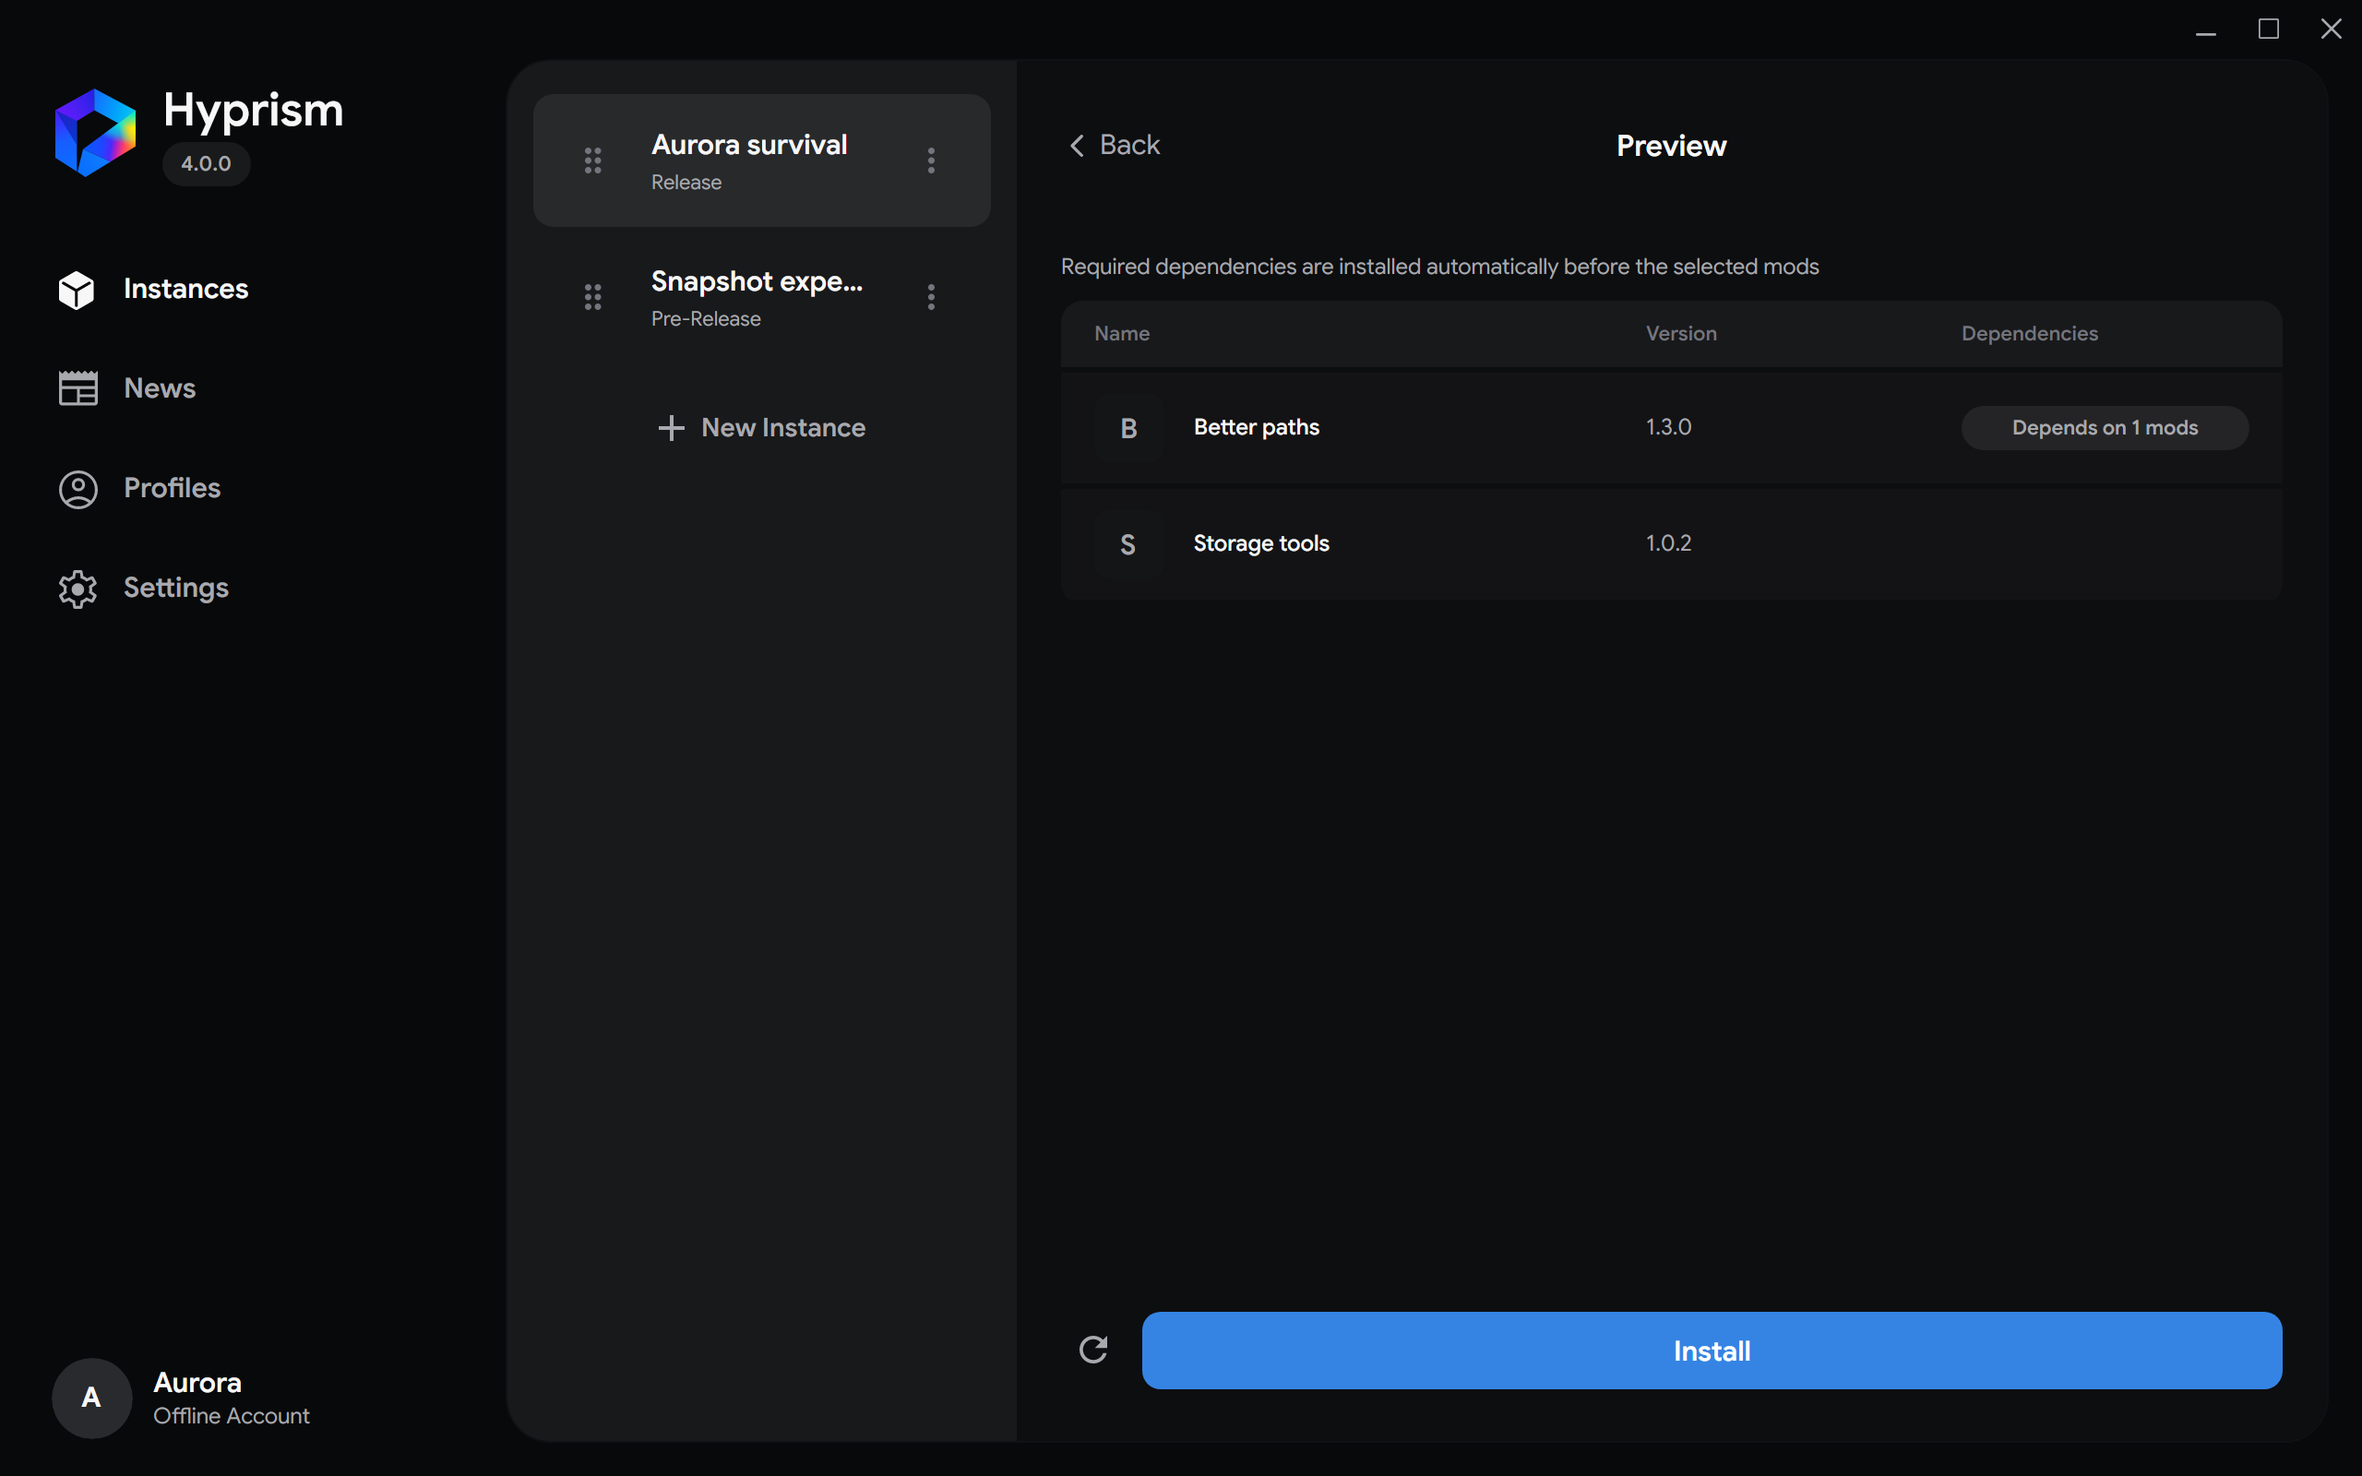
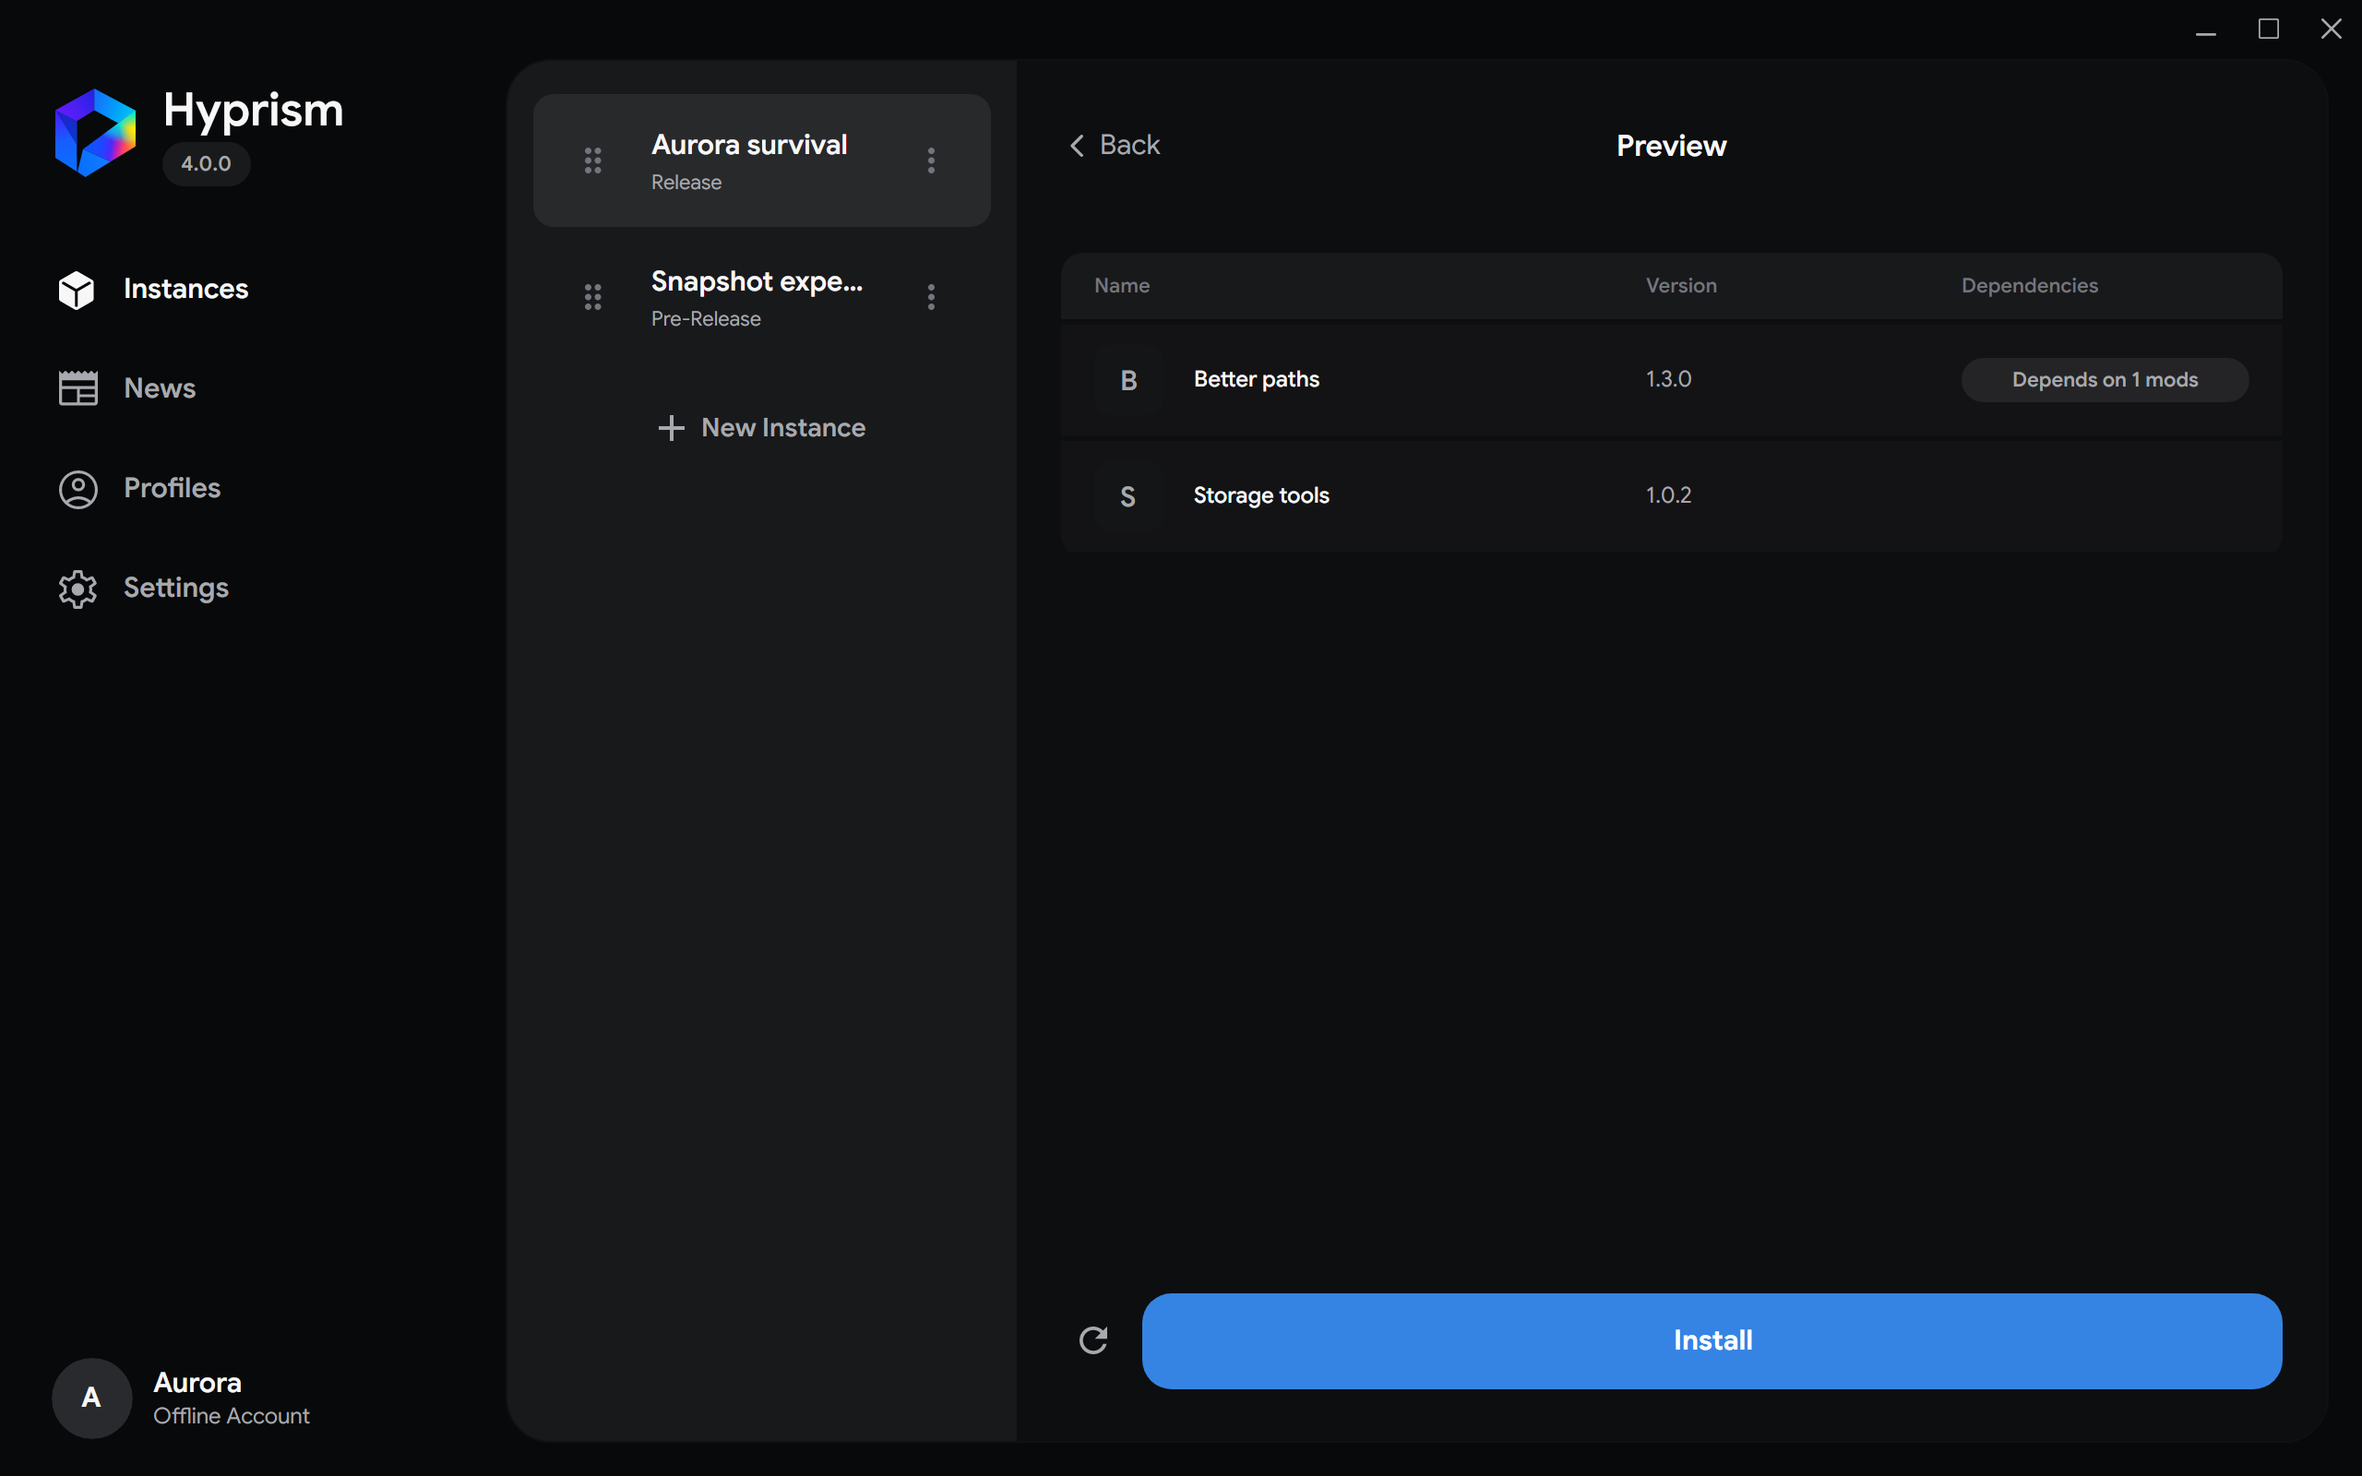
Refactor: Update transitions and styles for the compact view

diff --git a/Tests/Hyprism.Desktop.Tests/InstanceSectionRenderTests.cs b/Tests/Hyprism.Desktop.Tests/InstanceSectionRenderTests.cs
@@ -36,8 +36,10 @@ namespace Hyprism.Desktop.Tests;
 
 public sealed class InstanceSectionRenderTests
 {
-    [AvaloniaFact]
-    public async Task ModsBrowseAndLogsSectionsRenderInteractiveRows()
+    [AvaloniaTheory]
+    [InlineData(false)]
+    [InlineData(true)]
+    public async Task ModsBrowseAndLogsSectionsRenderInteractiveRows(bool compactInstallation)
     {
         const string instancePath = "/tmp/hyprism-section-render-test";
         var instance = new InstanceInfo
@@ -472,6 +474,28 @@ public sealed class InstanceSectionRenderTests
         var installConfirmButton = installContent.FindControl<Button>("ModCatalogInstallConfirmButton");
         Assert.NotNull(installConfirmButton);
         Assert.Same(viewModel.InstallSelectedCatalogModsCommand, installConfirmButton!.Command);
+        Assert.DoesNotContain(installContent.GetVisualDescendants().OfType<TextBlock>(),
+            text => text.Text == viewModel.Instances.ModCatalogInstallDependencyHint);
+        var buttonCenter = installConfirmButton.TranslatePoint(
+            new Point(installConfirmButton.Bounds.Width / 2, installConfirmButton.Bounds.Height / 2), window)!.Value;
+        var accent = Color.Parse("#176B52");
+        var hoverAccent = Color.Parse("#238568");
+        var pressedAccent = Color.Parse("#104834");
+        window.Resources["AccentBrush"] = new SolidColorBrush(accent);
+        window.Resources["AccentHoverBrush"] = new SolidColorBrush(hoverAccent);
+        window.Resources["PrimaryPressedBrush"] = new SolidColorBrush(pressedAccent);
+        await WaitUntilAsync(() => Assert.IsAssignableFrom<ISolidColorBrush>(installConfirmButton.Background).Color == accent);
+        window.MouseMove(buttonCenter);
+        await WaitUntilAsync(() => Assert.IsAssignableFrom<ISolidColorBrush>(installConfirmButton.Background).Color == hoverAccent);
+        var confirmBorder = Assert.Single(installConfirmButton.GetVisualDescendants().OfType<Border>());
+        Assert.Equal(hoverAccent, Assert.IsAssignableFrom<ISolidColorBrush>(confirmBorder.Background).Color);
+        window.MouseDown(buttonCenter, MouseButton.Left);
+        await WaitUntilAsync(() => Assert.IsAssignableFrom<ISolidColorBrush>(installConfirmButton.Background).Color == pressedAccent);
+        window.MouseMove(new Point(0, 0));
+        window.MouseUp(new Point(0, 0), MouseButton.Left);
+        window.Resources.Remove("AccentBrush");
+        window.Resources.Remove("AccentHoverBrush");
+        window.Resources.Remove("PrimaryPressedBrush");
         var installResetButton = installContent.FindControl<Button>("ModCatalogInstallResetButton");
         Assert.NotNull(installResetButton);
         Assert.Same(viewModel.ClearModCatalogSelectionCommand, installResetButton!.Command);
@@ -513,7 +537,35 @@ public sealed class InstanceSectionRenderTests
         viewModel.ToggleModCatalogSelectionCommand.Execute(viewModel.ModCatalogItems[0]);
         Assert.Contains("visible", catalogTopInstall.Classes);
 
+        if (compactInstallation)
+        {
+            window.Width = 680;
+            window.UpdateLayout();
+            Dispatcher.UIThread.RunJobs();
+        }
+        viewModel.OpenModCatalogInstallConfirmationCommand.Execute(null);
+        await WaitUntilAsync(() => installPage.IsEffectivelyVisible && !sectionPages.IsVisible &&
+            Math.Abs(Assert.IsType<TranslateTransform>(installPage.RenderTransform).X) < 0.1);
         var installTask = viewModel.InstallSelectedCatalogModsCommand.ExecuteAsync(null);
+        Assert.True(installPage.IsVisible);
+        Assert.False(installPage.IsHitTestVisible);
+        Assert.False(sectionPages.IsVisible);
+        var returningHub = view.FindControl<InstanceOverviewView>("InstanceOverviewContentView")!.HubScreen;
+        await WaitUntilAsync(() => !installPage.IsVisible && returningHub.IsHitTestVisible);
+        if (!compactInstallation)
+        {
+            await WaitUntilAsync(() => returningHub.Opacity > 0.05);
+            Assert.InRange(returningHub.Opacity, 0.05, 0.99);
+            Assert.InRange(Assert.IsType<TranslateTransform>(returningHub.RenderTransform).X, -28, -0.01);
+            await WaitUntilAsync(() => returningHub.Opacity >= 0.99 &&
+                Math.Abs(Assert.IsType<TranslateTransform>(returningHub.RenderTransform).X) < 0.1);
+        }
+        if (compactInstallation)
+        {
+            window.Width = 1180;
+            window.UpdateLayout();
+            Dispatcher.UIThread.RunJobs();
+        }
         Assert.Null(modsView.FindControl<Border>("ModCatalogInstallScreen"));
         await WaitUntilAsync(() => viewModel.Instances.IsManagedInstanceInstallingMods && viewModel.IsInstanceOverviewSection);
         var overview = Assert.Single(view.GetVisualDescendants().OfType<InstanceOverviewView>());

diff --git a/Sources/Hyprism.Desktop/Screens/Instances/InstancesView.axaml.cs b/Sources/Hyprism.Desktop/Screens/Instances/InstancesView.axaml.cs
@@ -26,6 +26,7 @@ public sealed partial class InstancesView : UserControl
     private readonly ReorderableListController _instanceReorder;
     private readonly WizardScreenTransition _modCatalogPreviewTransition;
     private readonly WizardScreenTransition _modCatalogInstallTransition;
+    private readonly WizardScreenTransition _modCatalogInstallToInstanceTransition;
     private INotifyPropertyChanged? _viewModel;
     private bool _creatorOpenedFromCompactList;
     private bool _creatorTransitionActive;
@@ -44,6 +45,9 @@ public sealed partial class InstancesView : UserControl
             InstanceModCatalogPreviewPage);
         _modCatalogInstallTransition = new WizardScreenTransition(
             InstanceSectionPages,
+            InstanceModCatalogInstallPage);
+        _modCatalogInstallToInstanceTransition = new WizardScreenTransition(
+            InstanceHubScreen,
             InstanceModCatalogInstallPage);
         InstanceOverviewContentView.BackRequested += OnCompactInstanceBackClicked;
         InstanceListContentView.InstanceClicked += OnInstanceClicked;
@@ -148,6 +152,16 @@ public sealed partial class InstancesView : UserControl
 
         if (args.PropertyName is nameof(InstancesViewModel.InstanceSection))
         {
+            if (InstanceModCatalogInstallPage.IsVisible &&
+                DataContext is InstancesViewModel { IsInstallingSelectedCatalogMods: true, IsInstanceOverviewSection: true })
+            {
+                CancelSectionAnimation();
+                _modCatalogInstallTransition.Cancel();
+                InstanceSectionPages.IsVisible = false;
+                (DataContext as InstancesViewModel)?.CompleteInstanceSectionClose();
+                return;
+            }
+
             if (InstanceModCatalogPreviewPage.IsVisible || InstanceModCatalogInstallPage.IsVisible)
             {
                 ApplySectionStateImmediately();
@@ -245,6 +259,7 @@ public sealed partial class InstancesView : UserControl
 
     private void ApplyModCatalogInstallStateImmediately()
     {
+        _modCatalogInstallToInstanceTransition.Cancel();
         if (DataContext is InstancesViewModel { HasModCatalogInstallConfirmation: true })
         {
             _modCatalogInstallTransition.ShowWizardImmediately();
@@ -270,21 +285,37 @@ public sealed partial class InstancesView : UserControl
                 shouldRemainOpen,
                 onSlideStarted: null,
                 onOpened,
-                horizontalOffset: GetSectionSlideDistance())
+                horizontalOffset: GetSectionSlideDistance(),
+                slideOverview: true)
             : _modCatalogInstallTransition.OpenAsync(shouldRemainOpen, onOpened);
     }
 
     private Task PlayModCatalogInstallCloseAnimationAsync()
     {
+        var returningToInstance = DataContext is InstancesViewModel { IsInstanceOverviewSection: true };
+        var transition = returningToInstance
+            ? _modCatalogInstallToInstanceTransition
+            : _modCatalogInstallTransition;
         Func<bool> shouldRemainClosed =
             () => DataContext is InstancesViewModel { HasModCatalogInstallConfirmation: false };
-        Action onClosed = () => (DataContext as InstancesViewModel)?.CompleteModCatalogInstallConfirmationClose();
+        Action onClosed = () =>
+        {
+            if (returningToInstance)
+            {
+                InstanceSectionScreen.IsVisible = false;
+                InstanceSectionScreen.IsHitTestVisible = false;
+                _modCatalogInstallTransition.ShowOverviewImmediately();
+            }
+
+            (DataContext as InstancesViewModel)?.CompleteModCatalogInstallConfirmationClose();
+        };
         return _layoutHost.IsCompact
-            ? _modCatalogInstallTransition.CloseCompactOverlayAsync(
+            ? transition.CloseCompactOverlayAsync(
                 shouldRemainClosed,
                 onClosed,
-                horizontalOffset: GetSectionSlideDistance())
-            : _modCatalogInstallTransition.CloseAsync(shouldRemainClosed, onClosed);
+                horizontalOffset: GetSectionSlideDistance(),
+                slideOverview: !returningToInstance)
+            : transition.CloseAsync(shouldRemainClosed, onClosed);
     }
 
     private void OnInstanceDeleteModalClosed(object? sender, EventArgs args)

diff --git a/Sources/Hyprism.Desktop/UI/Controls/Interaction/WizardScreenTransition.cs b/Sources/Hyprism.Desktop/UI/Controls/Interaction/WizardScreenTransition.cs
@@ -98,7 +98,8 @@ public sealed class WizardScreenTransition
         Func<bool> shouldRemainOpen,
         Action? onSlideStarted,
         Action? onOpened,
-        double horizontalOffset)
+        double horizontalOffset,
+        bool slideOverview = false)
     {
         var cancellationToken = BeginAnimation();
         _overview.IsHitTestVisible = false;
@@ -112,10 +113,11 @@ public sealed class WizardScreenTransition
                 return;
 
             onSlideStarted?.Invoke();
-            await RunCompactOverlaySlideAsync(
-                GetTranslation(_wizard),
-                0,
-                cancellationToken);
+            await Task.WhenAll(
+                RunCompactOverlaySlideAsync(GetTranslation(_wizard), 0, cancellationToken),
+                slideOverview
+                    ? RunCompactOverlaySlideAsync(GetTranslation(_overview), -horizontalOffset, cancellationToken)
+                    : Task.CompletedTask);
             if (cancellationToken.IsCancellationRequested || !shouldRemainOpen())
                 return;
 
@@ -168,7 +170,8 @@ public sealed class WizardScreenTransition
     public async Task CloseCompactOverlayAsync(
         Func<bool> shouldRemainClosed,
         Action? onClosed,
-        double horizontalOffset)
+        double horizontalOffset,
+        bool slideOverview = false)
     {
         var cancellationToken = BeginAnimation();
         if (!_wizard.IsVisible)
@@ -178,15 +181,16 @@ public sealed class WizardScreenTransition
             return;
         }
 
-        RevealOverviewBehindWizard();
+        RevealOverviewBehindWizard(slideOverview ? -horizontalOffset : 0);
         _wizard.IsHitTestVisible = false;
 
         try
         {
-            await RunCompactOverlaySlideAsync(
-                GetTranslation(_wizard),
-                horizontalOffset,
-                cancellationToken);
+            await Task.WhenAll(
+                RunCompactOverlaySlideAsync(GetTranslation(_wizard), horizontalOffset, cancellationToken),
+                slideOverview
+                    ? RunCompactOverlaySlideAsync(GetTranslation(_overview), 0, cancellationToken)
+                    : Task.CompletedTask);
             if (cancellationToken.IsCancellationRequested || !shouldRemainClosed())
                 return;
 
@@ -411,7 +415,7 @@ public sealed class WizardScreenTransition
         wizardTranslation.Transitions = wizardTranslationTransitions;
     }
 
-    private void RevealOverviewBehindWizard()
+    private void RevealOverviewBehindWizard(double offset = 0)
     {
         var translation = GetTranslation(_overview);
         var overviewTransitions = _overview.Transitions;
@@ -421,7 +425,7 @@ public sealed class WizardScreenTransition
         _overview.IsVisible = true;
         _overview.Opacity = 1;
         _overview.IsHitTestVisible = false;
-        translation.X = 0;
+        translation.X = offset;
         _overview.Transitions = overviewTransitions;
         translation.Transitions = translationTransitions;
     }

diff --git a/Sources/Hyprism.Desktop/Screens/Instances/InstancesViewModel.cs b/Sources/Hyprism.Desktop/Screens/Instances/InstancesViewModel.cs
@@ -1194,11 +1194,10 @@ public sealed partial class InstancesViewModel : ObservableObject, IDisposable
         _installingModsInstanceId = instance.Id;
         _activeModInstallItems = items;
         _modCatalogInstallAccepted = true;
-        IsModCatalogInstallConfirmationOpen = false;
         ModCatalogInstallCompletedCount = 0;
         ModCatalogInstallProgress = 0;
-        CloseInstanceSection();
         IsInstallingSelectedCatalogMods = true;
+        CloseInstanceSection();
         BeginInstanceActivity(instance.Id);
         foreach (var item in items)
             item.IsInstalling = true;
